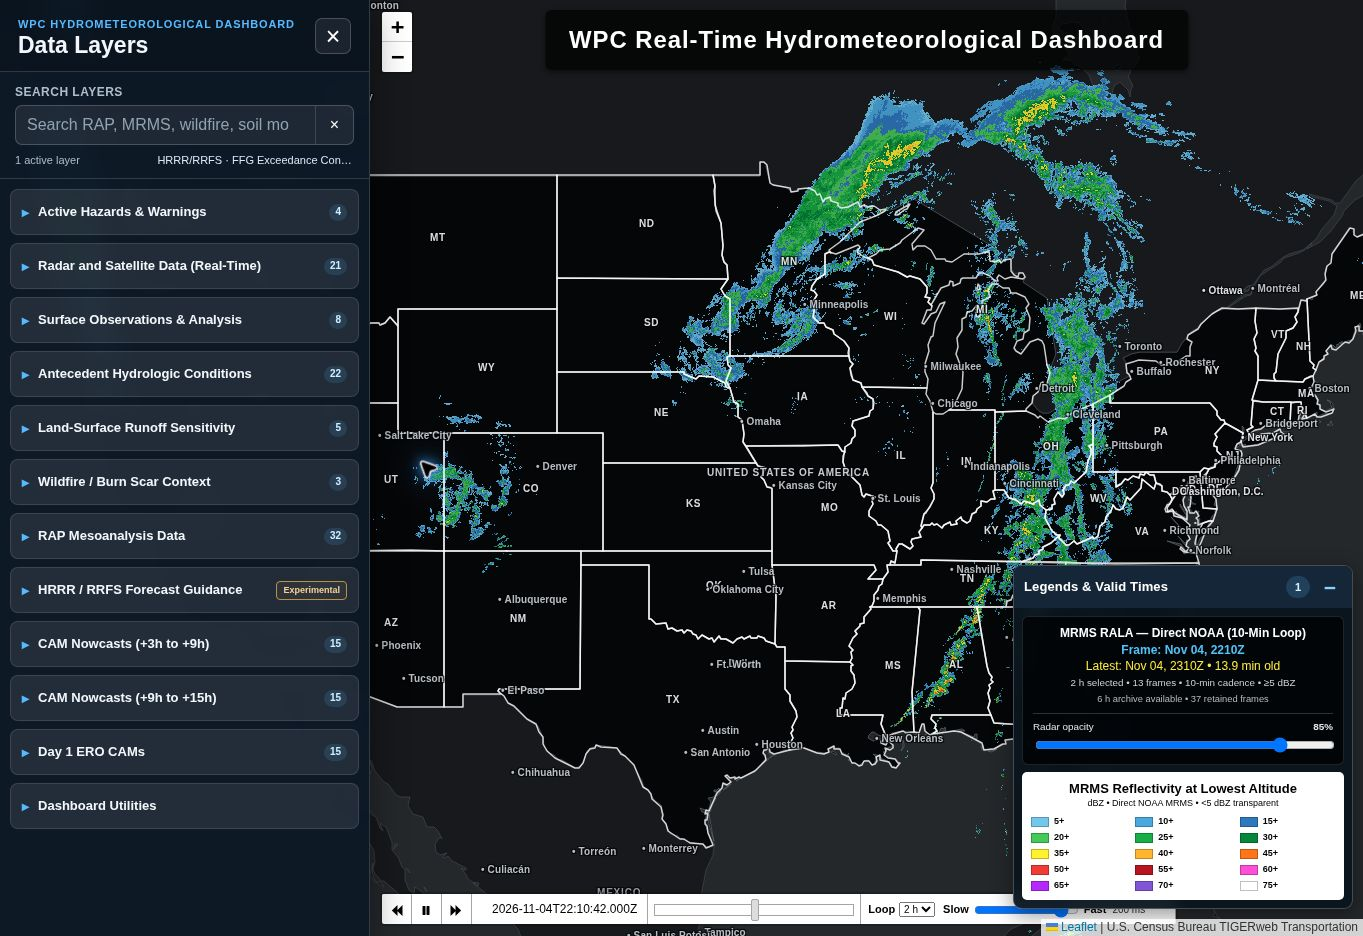
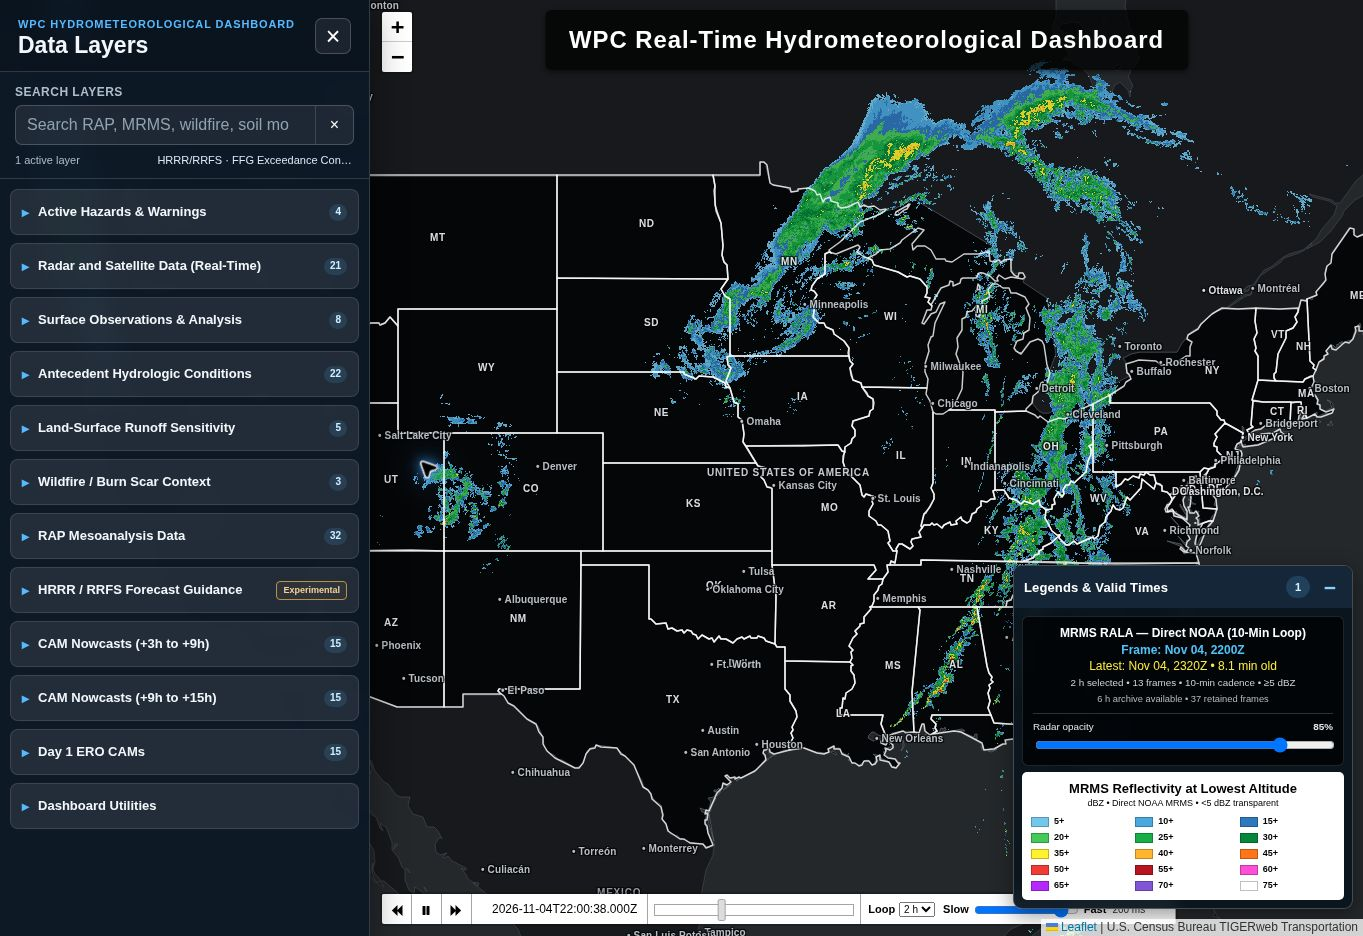
Confirm automatic live RALA frame advancement after repair

diff --git a/review/rala-health/README.md b/review/rala-health/README.md
@@ -15,3 +15,5 @@ The [investigation record](investigation_20261104.json) contains source/run time
 Merged as [PR #38](https://github.com/andreworrison-cloud/wpc-hydro-dashboard/pull/38), source `7807733cfe810d0ecde8d02046039f436649003c`. Main validation and Pages source synchronization succeeded. The first three repaired production jobs completed in approximately 25, 27 and 40 seconds. The third scheduled run published the next 23:20:39Z observation at 23:23Z, with a measured age of 2.36 minutes and all 37 archive frames. The [verification record](verification_20261104.json) retains the run IDs and publication receipts.
 
 A separate read observed a GitHub raw CDN response one ten-minute frame behind the native branch, with `max-age=300` and `X-Cache: HIT`. The producer repair does not alter GitHub's CDN. The dashboard retains its twenty-minute stale cutoff rather than treating a recent generation time as evidence of fresh radar.
+
+The live production page advanced automatically from 23:10:40Z to 23:20:39Z without a reload, verified at 23:28:46Z with an 8.1-minute observation age. The [live screenshot](live_rala_20261104.jpg) also shows Dashboard Utilities immediately after Day 1 ERO CAMs, with the empty placeholder absent.
